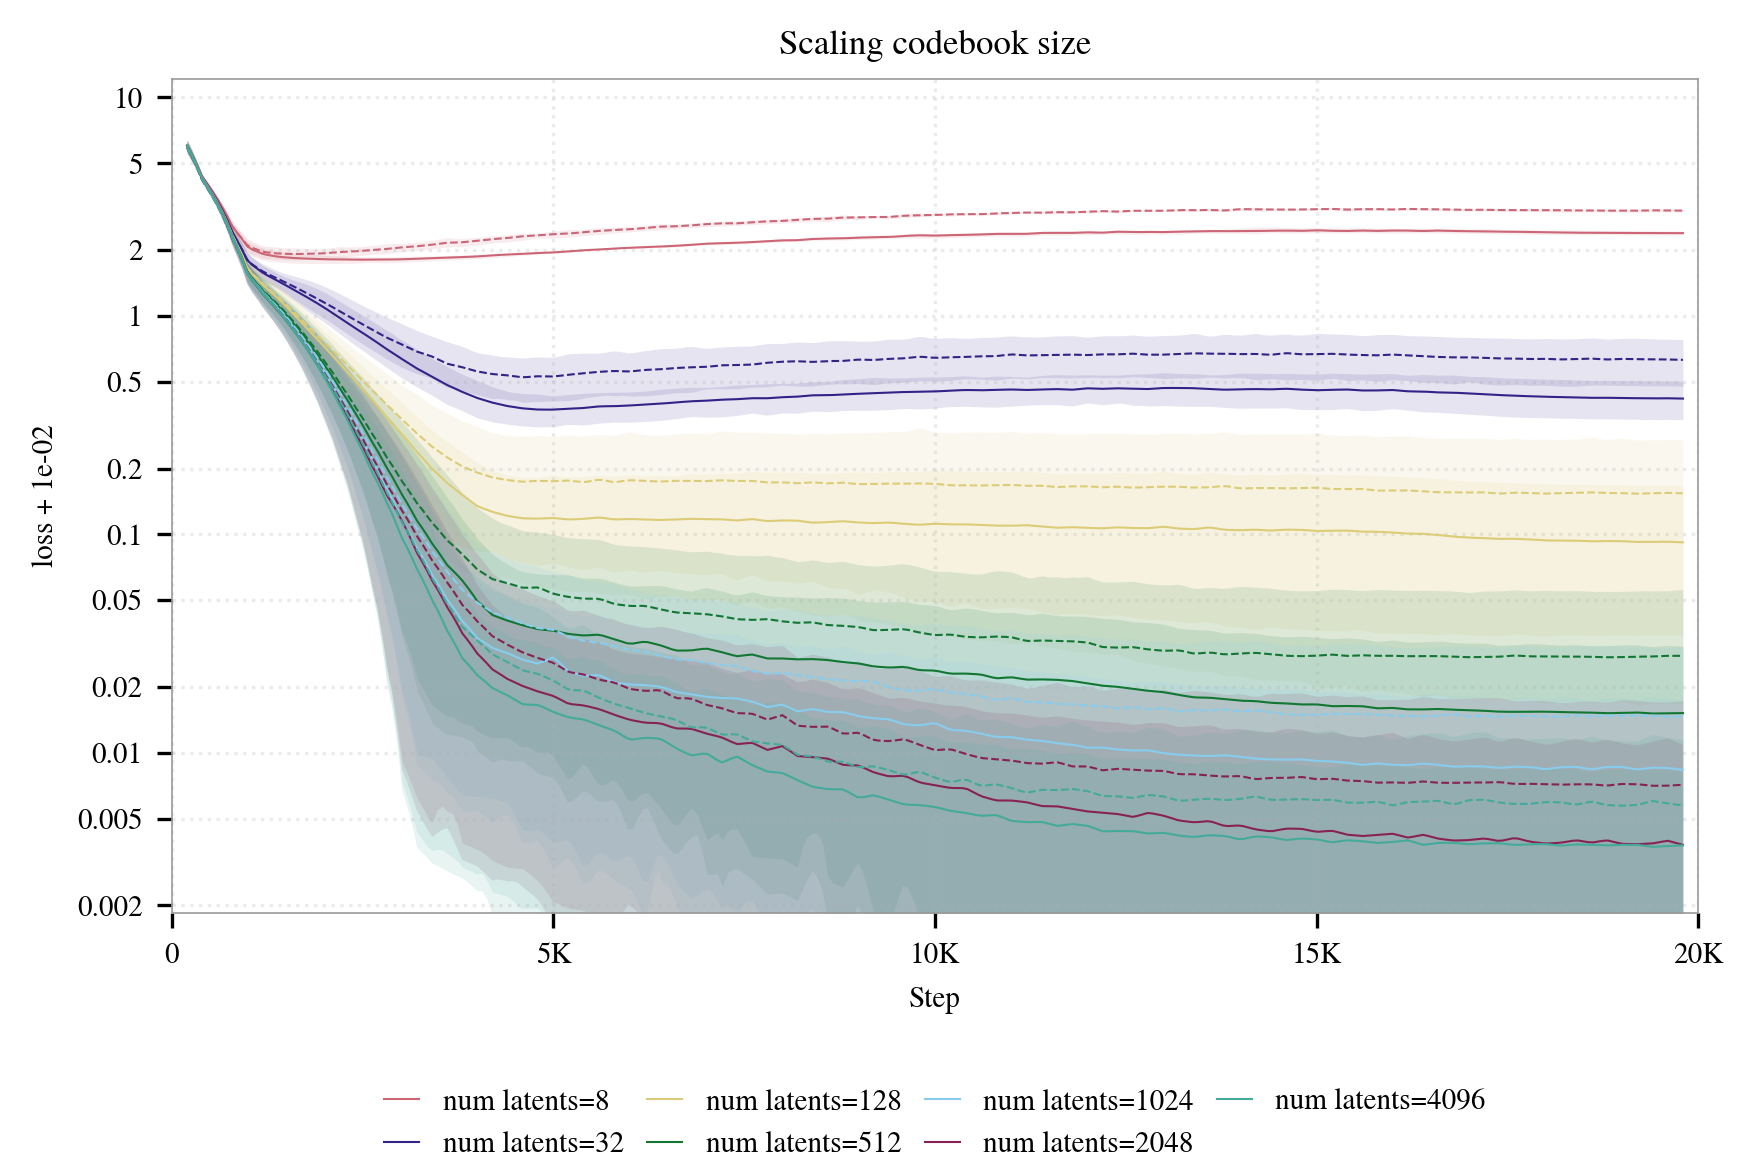
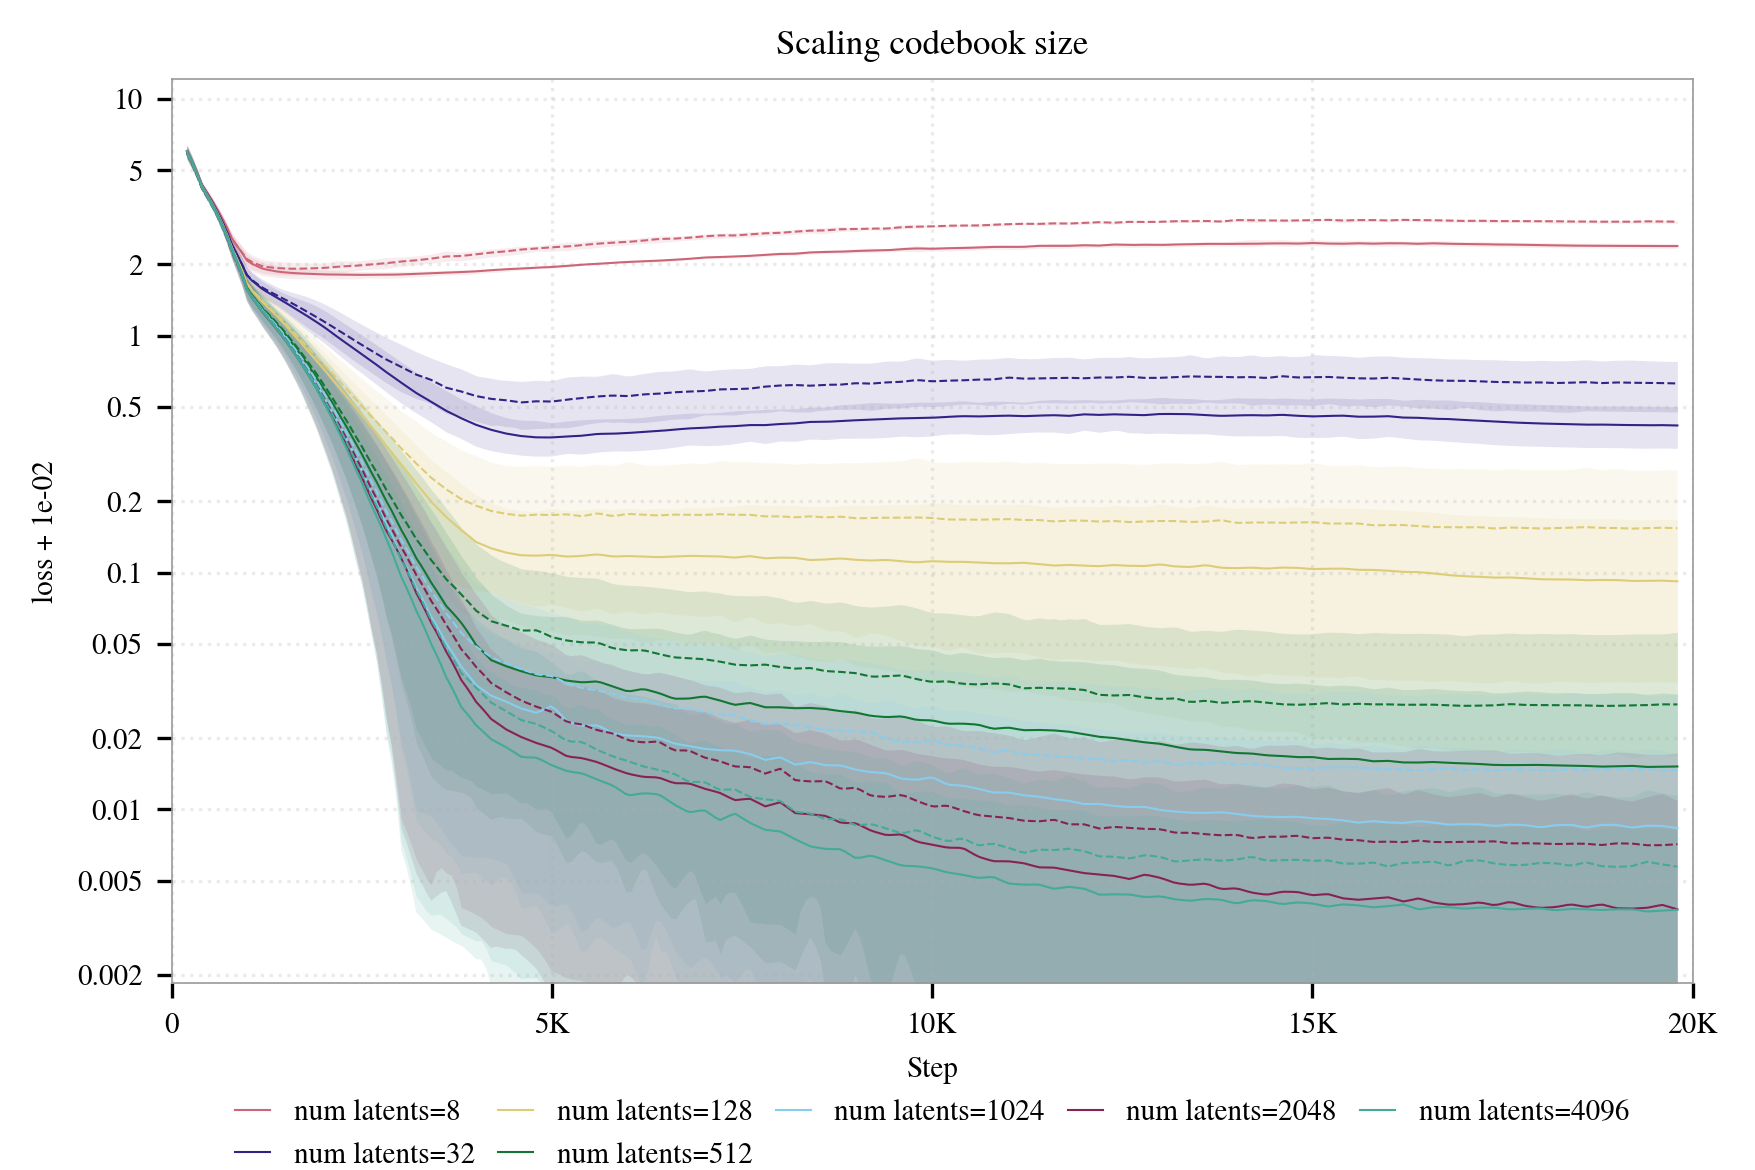
add figures to text

diff --git a/tmlr.tex b/tmlr.tex
@@ -111,9 +111,9 @@ SMILES-based representation creates a duality between text and molecules. Each m
 This representation allows the use of language models for molecular design.
 GPT-based models, widely known for their use in text generation, are based on a decoder-only Transformer architecture trained to predict the next piece of text, denoted as token, given as context a sequence of tokens. Formally, an input text \(m\) is first mapped by a tokenizer to a sequence
 \[
-\operatorname{tok}(s_m) = (x_1,\ldots,x_n), \qquad x_i \in \mathcal{V},
+      \operatorname{tok}(s_m) = (x_1,\ldots,x_n), \qquad x_i \in \mathcal{V},
 \]
-where \(\mathcal{V}\) denotes the token vocabulary. The model is then trained to 
+where \(\mathcal{V}\) denotes the token vocabulary. The model is then trained to
 
 
 \paragraph{Reinforcement learning.}
@@ -186,9 +186,39 @@ To confirm the findings, we repeat the experiment at a vocabulary size of 512 an
 
 
 \subsection{Scaling latent action spaces vs scaling token vocabularies.}
+\begin{figure}
+      \centering
+      \includegraphics[width=0.8\textwidth]{figures/fig3_combined_scaling_curve.png}
+      \caption{
+            Validation loss across different codebook sizes or vocabulary sizes. The x-axis shows the codebook size for our method and the vocabulary size for the baseline, while the y-axis shows the best validation loss achieved across three random seeds.
+      }
+      \label{fig:scaling_curve}
+\end{figure}
+
+\begin{figure}
+      \centering
+      \includegraphics[width=0.8\textwidth]{figures/fig2_cgpt_codebook_scaling.png}
+      \caption{
+      Training curves for the baseline and our method across different codebook sizes.
+      Solid lines show the mean loss on the training dataset and dotted lines show the mean loss on the validation dataset, both averaged across three random seeds. Shaded areas show 95\% confidence intervals across seeds.
+      }
+      \label{fig:scaling_codebook}
+\end{figure}
+
+\begin{figure}
+      \centering
+      \includegraphics[width=0.8\textwidth]{figures/fig1_gpt_vocab_scaling.png}
+      \caption{
+      Training curves for the baseline across different vocabulary sizes.
+      Solid lines show the mean loss on the training dataset and dotted lines show the mean loss on the validation dataset, both averaged across three random seeds. Shaded areas show 95\% confidence intervals across seeds.
+      }
+      \label{fig:scaling_vocabulary}
+\end{figure}
+
 Experiment (ablation): compare the learning curves of the baseline and our method across different codebook sizes (e.g., 128, 512, 1024, 2048 latent codes vs 128, 512, 1024, 2048 vocab sizes (cross product)) to characterise how compression affects both generation quality and RL performance.
 This will also shed light on the compressibility of the molecule generation problem: if we can achieve competitive performance with a codebook size much smaller than the token vocabulary, it suggests that the problem is highly compressible and that the \gls{lam} is learning a more efficient representation of the action space.
 
+Figure~\ref{fig:scaling_curve} shows that.
 
 \subsection{Does a learned latent action space have an impact on finetuning?}
 Experiment: compare the learning curves of the baseline and our method across different tasks to characterise how the learned latent action space affects the optimisation landscape and the ease of learning.
@@ -217,11 +247,11 @@ So the distillation loss plateauing high isn't just underfitting — it's partly
 
 
 \paragraph{Limitations.}
-Limitation on evidence. 
+Limitation on evidence.
 Evidence is limited to a single dataset (ZINC), representation (SMILES), and set of properties (computed by RDKit).
 Future work should expand this to other datasets to establish the generality of our findings;
 it should also explore other representations (e.g., graphs, 3D);
-and other properties (e.g., docking scores, binding affinity, toxicity) to establish the generality of our findings. 
+and other properties (e.g., docking scores, binding affinity, toxicity) to establish the generality of our findings.
 
 Limitation on the method.
 